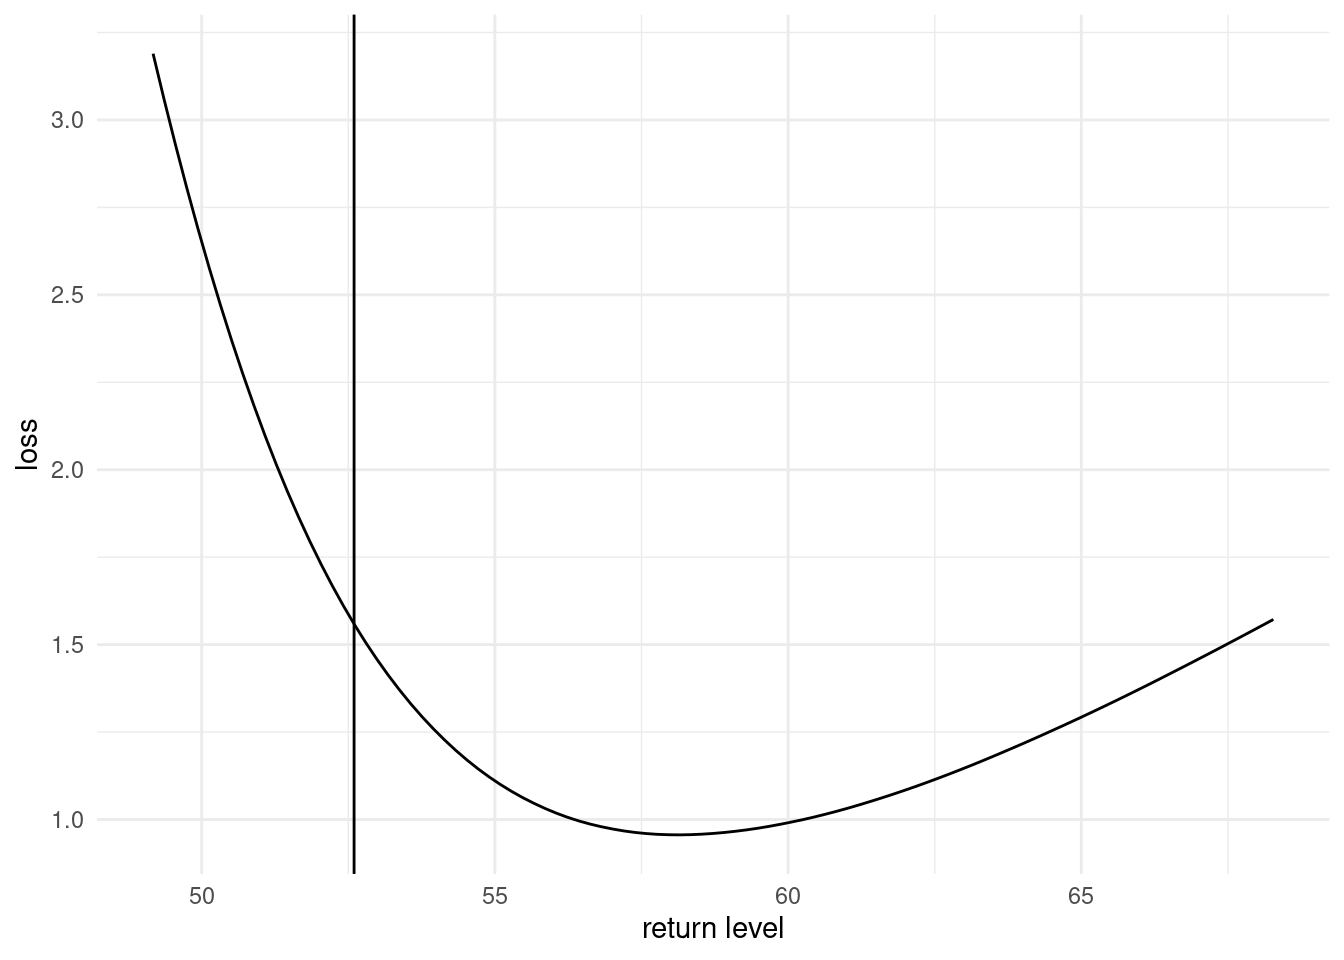
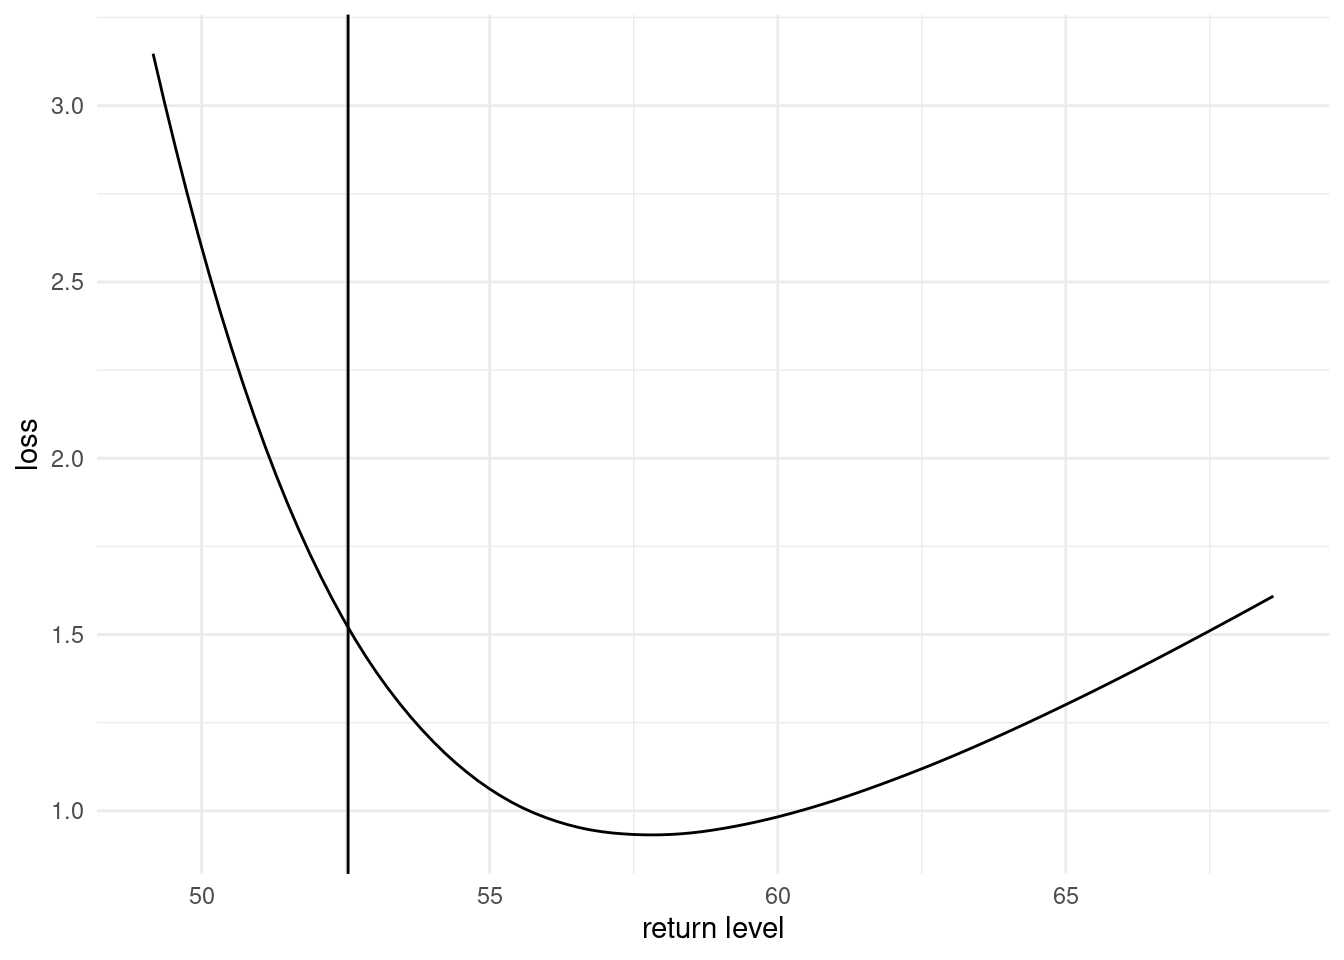
Built site for gh-pages

diff --git a/content/bayesian.html b/content/bayesian.html
@@ -274,13 +274,13 @@ p(\boldsymbol{\theta} \mid \boldsymbol{Y}) = \frac{p(\boldsymbol{Y} \mid \boldsy
 <span id="cb3-17"><a href="#cb3-17" aria-hidden="true" tabindex="-1"></a><span class="fu">quantile</span>(post_gev_mean, <span class="fu">c</span>(<span class="fl">0.25</span>, <span class="fl">0.5</span>, <span class="fl">0.75</span>))</span></code><button title="Copy to Clipboard" class="code-copy-button"><i class="bi"></i></button></pre></div>
 <div class="cell-output cell-output-stdout">
 <pre><code>     25%      50%      75% 
-59.21587 66.89105 82.32599 </code></pre>
+59.28320 67.21220 81.80675 </code></pre>
 </div>
 <div class="sourceCode cell-code" id="cb5"><pre class="sourceCode r code-with-copy"><code class="sourceCode r"><span id="cb5-1"><a href="#cb5-1" aria-hidden="true" tabindex="-1"></a><span class="co"># To get a 95% credible interval, simply compute quantiles</span></span>
 <span id="cb5-2"><a href="#cb5-2" aria-hidden="true" tabindex="-1"></a><span class="fu">quantile</span>(post_gev_mean, <span class="fu">c</span>(<span class="fl">0.025</span>, <span class="fl">0.975</span>))</span></code><button title="Copy to Clipboard" class="code-copy-button"><i class="bi"></i></button></pre></div>
 <div class="cell-output cell-output-stdout">
 <pre><code>     2.5%     97.5% 
- 51.96647 165.95647 </code></pre>
+ 52.15426 159.57691 </code></pre>
 </div>
 </div>
 <p>We can see that the credible intervals are quite asymmetric.</p>
@@ -295,7 +295,7 @@ p(\boldsymbol{\theta} \mid \boldsymbol{Y}) = \frac{p(\boldsymbol{Y} \mid \boldsy
 <span id="cb7-7"><a href="#cb7-7" aria-hidden="true" tabindex="-1"></a><span class="fu">summary</span>(post_pred_samp)</span></code><button title="Copy to Clipboard" class="code-copy-button"><i class="bi"></i></button></pre></div>
 <div class="cell-output cell-output-stdout">
 <pre><code>   Min. 1st Qu.  Median    Mean 3rd Qu.    Max. 
-  42.22   49.57   52.70   55.45   57.83  273.63 </code></pre>
+  41.87   49.53   52.69   55.42   57.73  581.96 </code></pre>
 </div>
 </div>
 <p>As part of the Bayesian workflow <span class="citation" data-cites="Gabry:2019">(<a href="#ref-Gabry:2019" role="doc-biblioref">Gabry et al., 2019</a>)</span>, we can also check if our model is in line with expectations by computing a summary statistic on simulate datasets from the posterior predictive, and comparing it with that of the original data. If the value for the original sample lies far into the tails of the distribution of simulated samples, this provides evidence of model misspecification.</p>
